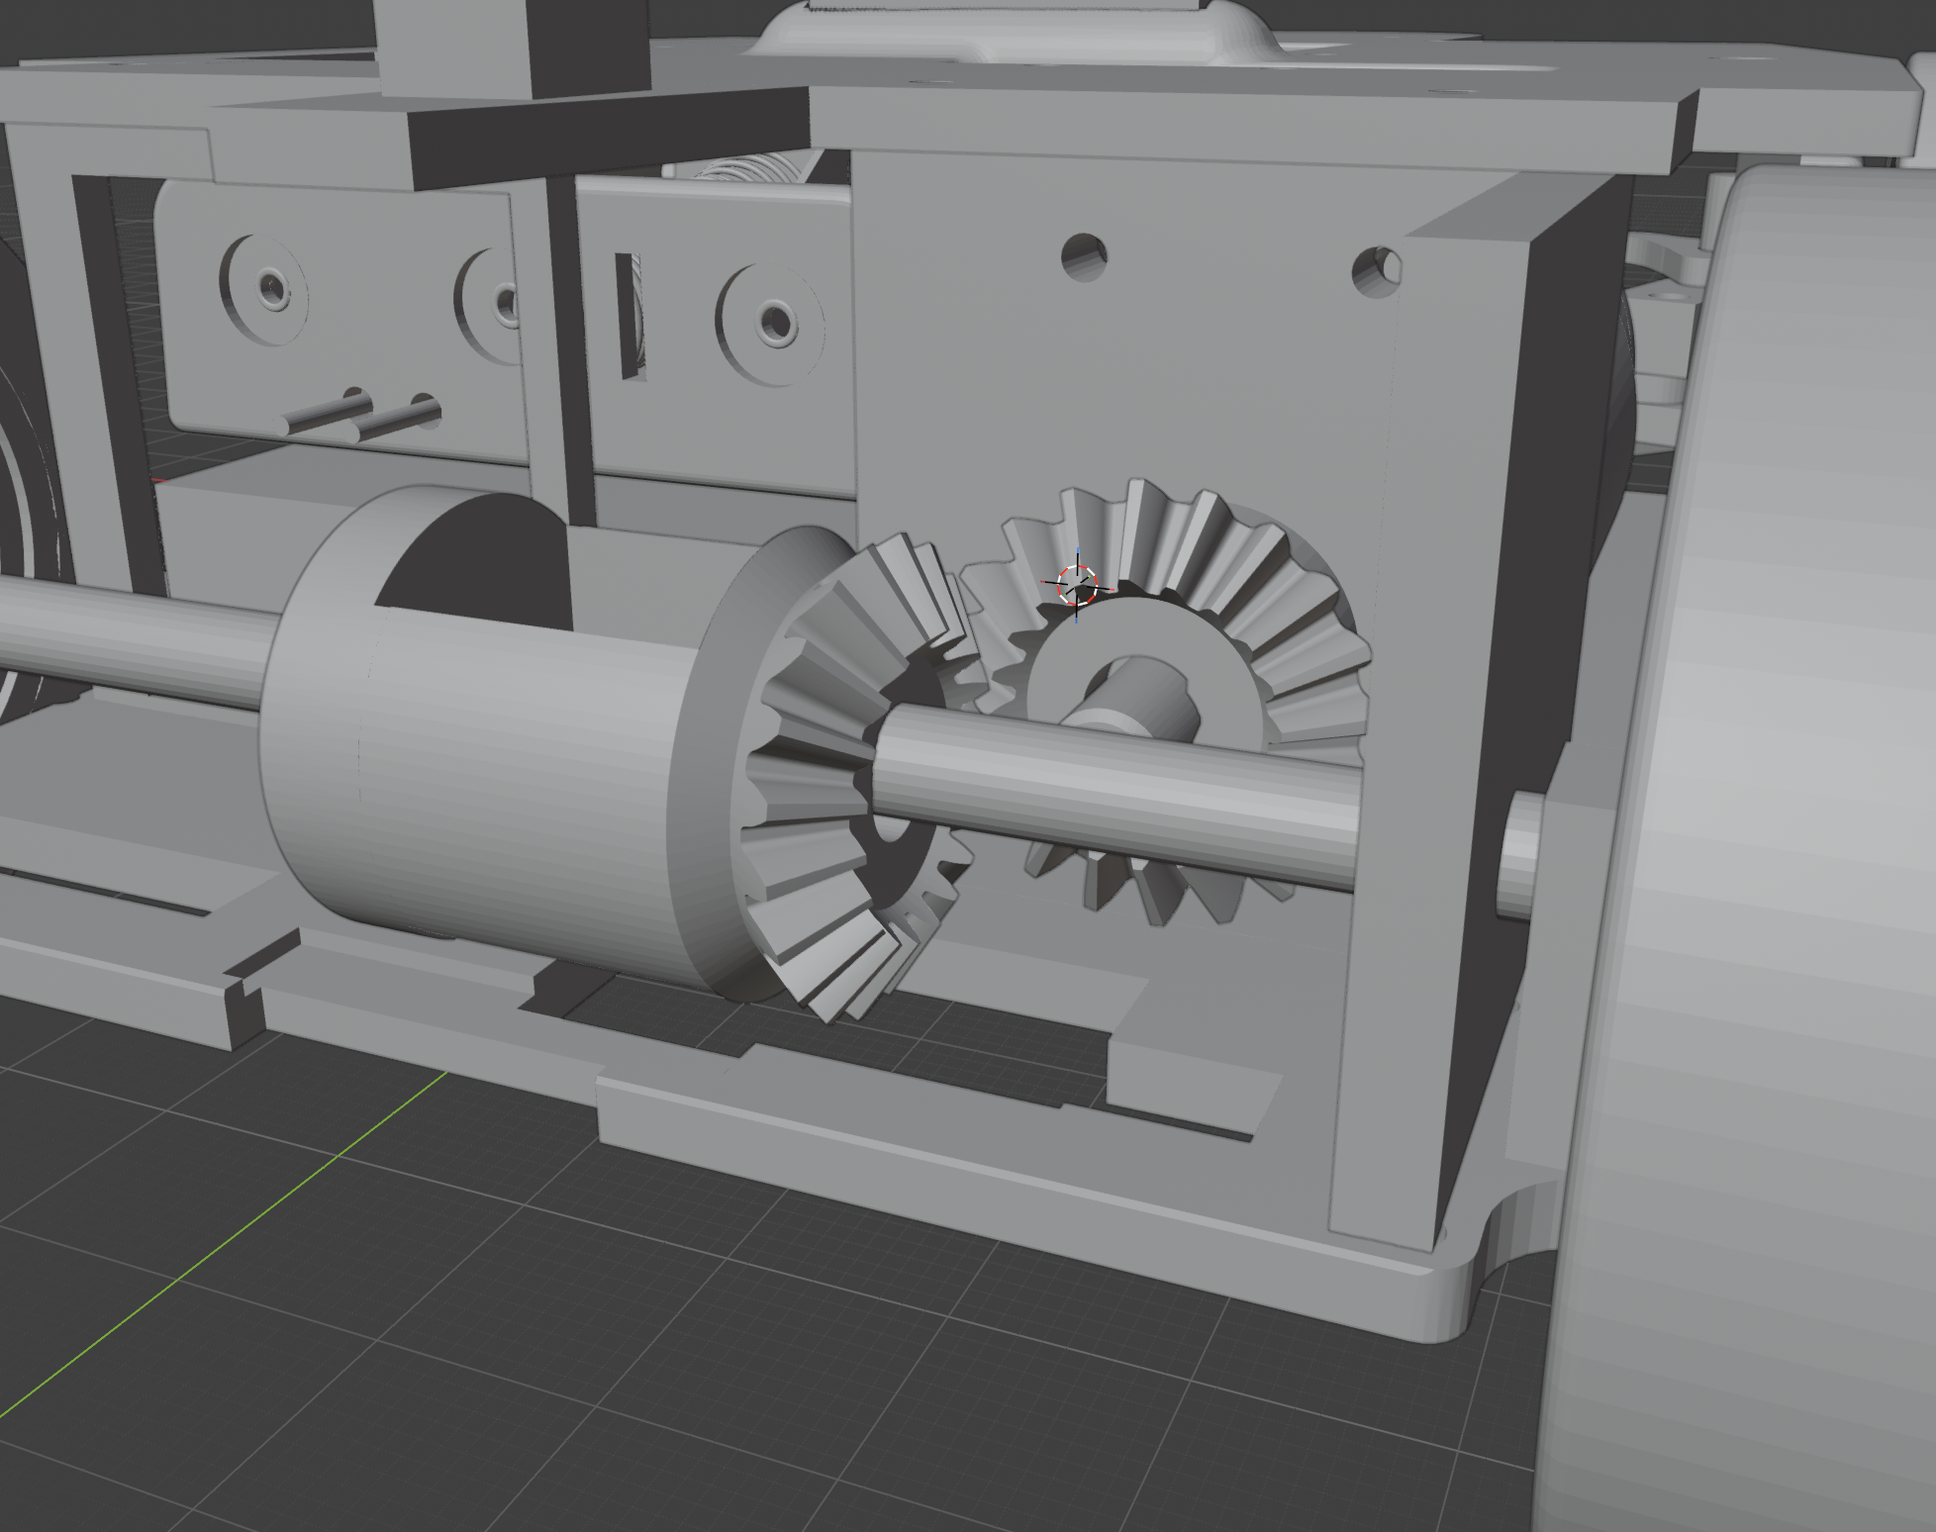
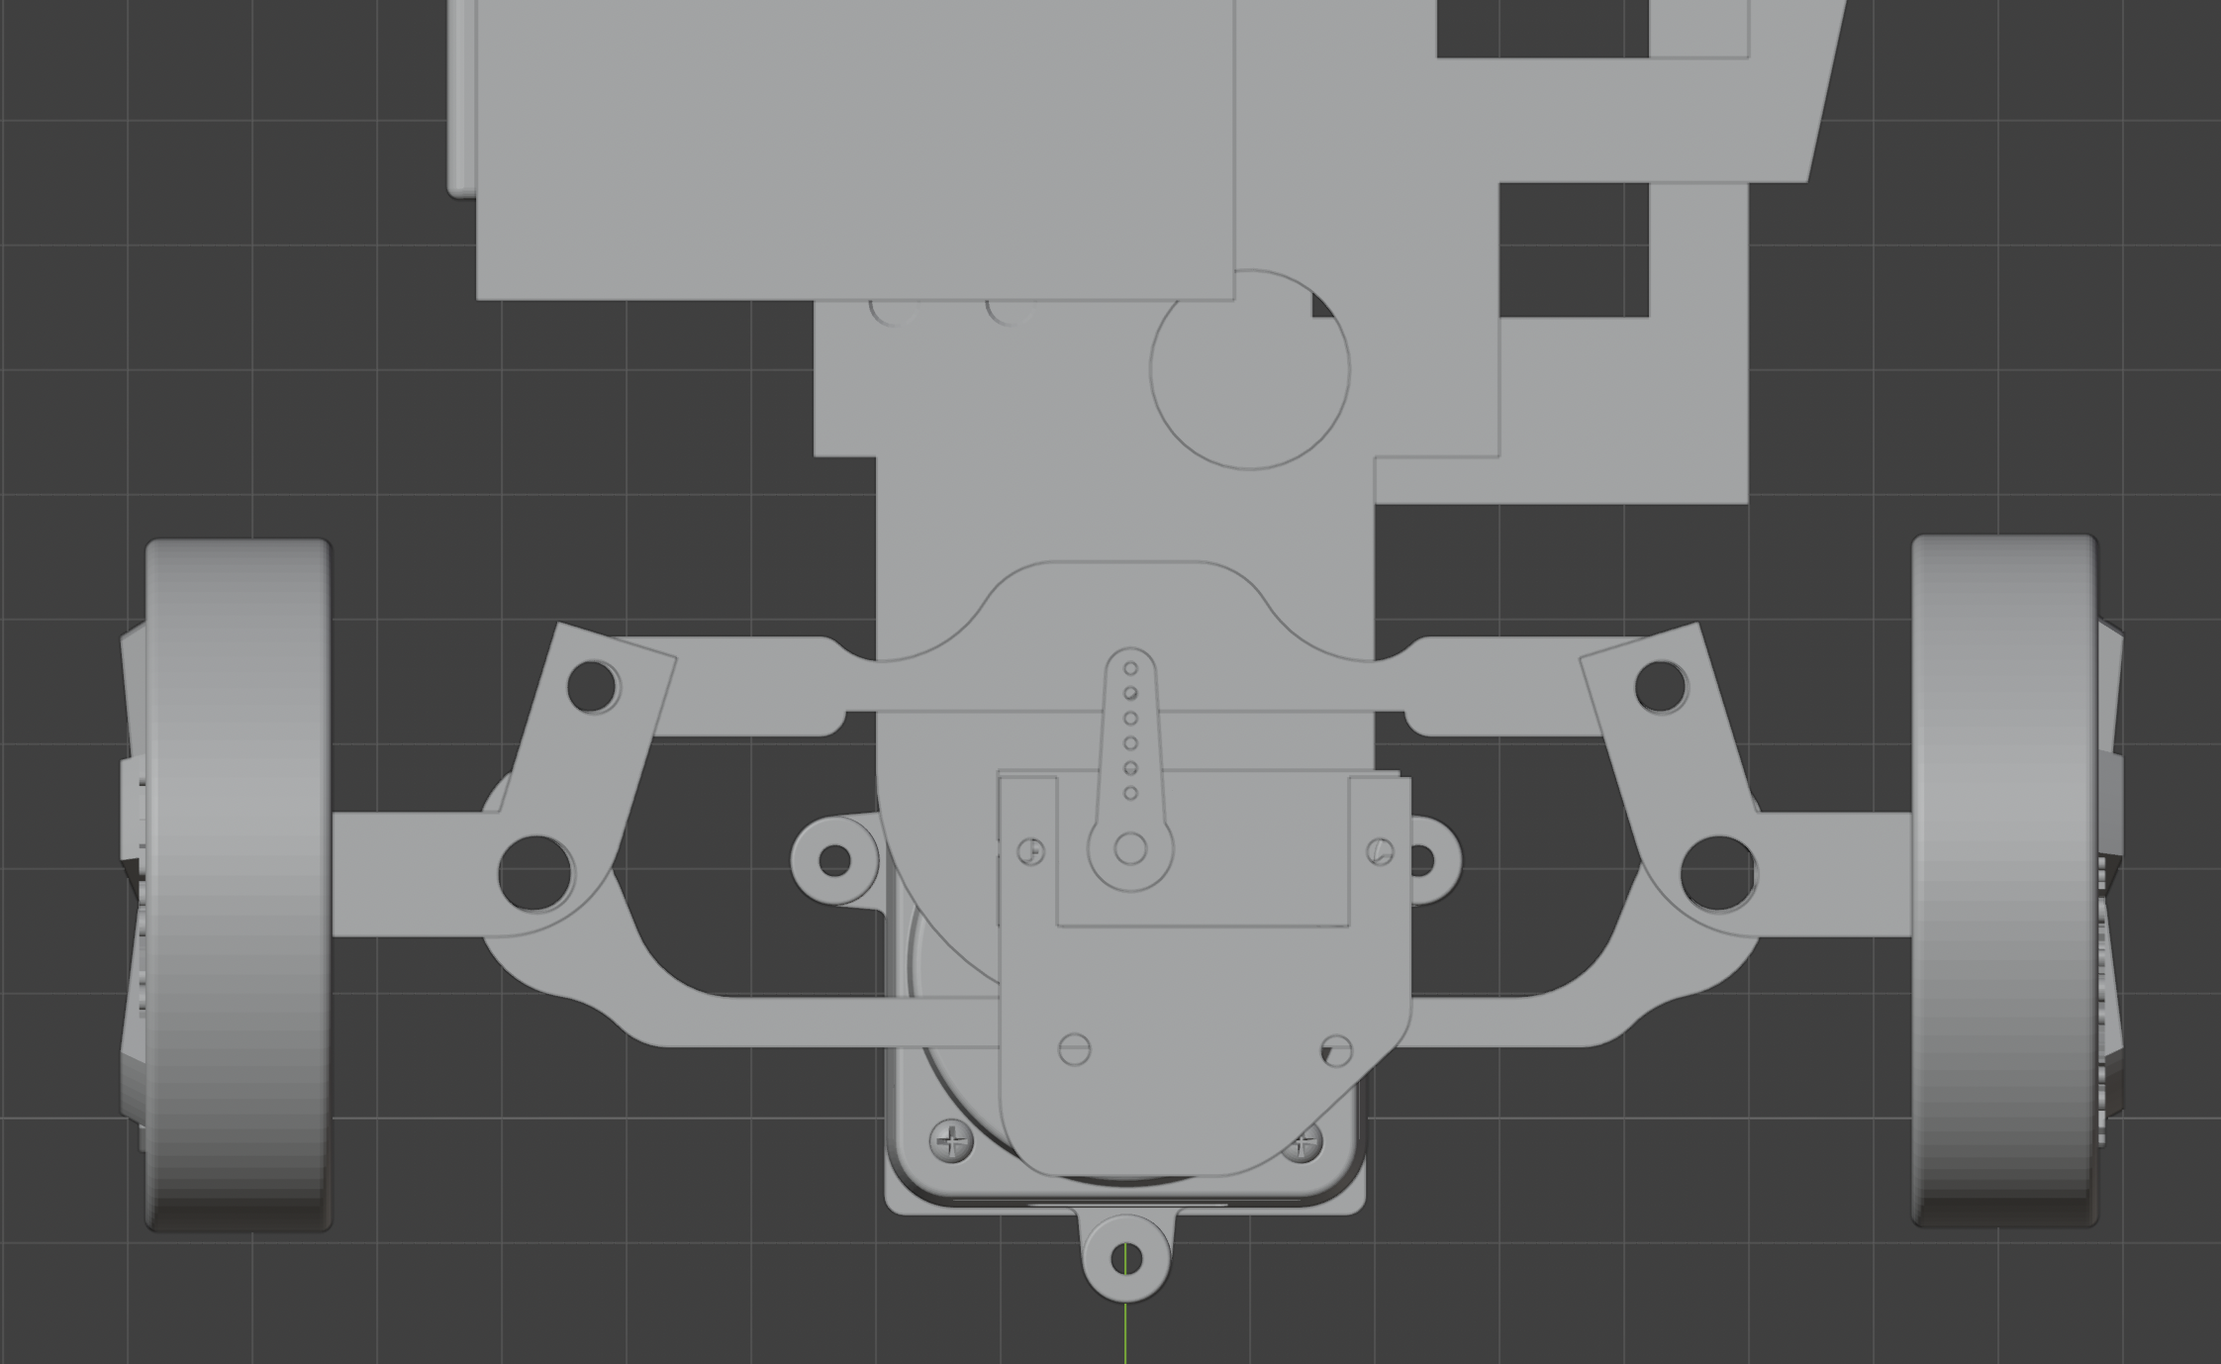
Update codes and README

diff --git a/README.md b/README.md
@@ -46,6 +46,10 @@ Unlike a conventional microcontroller, the Raspberry Pi is a compact computer th
 
 At the beginning of development, we used a **Raspberry Pi 4**. However, image processing required more computational power than expected, making real-time control difficult in some situations. After upgrading to the Raspberry Pi 5, image processing became significantly faster, resulting in much more stable driving performance.
 
+We also adopted an **RP2040** as a sub-controller for motor control.
+
+Because the Raspberry Pi 5 runs Linux, when we command it (for example, changing PWM values or reading encoders in Python), many processes such as LiDAR processing, camera processing, and communication are running simultaneously. As a result, **the processing timing can drift slightly**. Considering this and maintainability, we decided to offload motor control to the RP2040.
+
 ## LiDAR
 
 Our robot uses a **LiDAR** for wall detection, distance measurement, and wall following.
@@ -53,6 +57,9 @@ Our robot uses a **LiDAR** for wall detection, distance measurement, and wall fo
 We initially considered using ultrasonic sensors. However, ultrasonic sensors can only measure distance in a single direction, whereas the LiDAR can obtain distance information from almost the entire surrounding area, although part of its field of view is blocked by components such as the Raspberry Pi. This allows the robot to detect obstacles in front while simultaneously measuring the distances to both side walls, enabling more accurate self-localization.
 
 One of the greatest challenges during development was designing an algorithm capable of accurately detecting walls using LiDAR point cloud data. In addition, because the robot must process a large amount of distance data in real time, optimizing the processing speed was also a major challenge. Through repeated testing and refinement, we continuously improved both the algorithm and the software until the current system was completed.
+
+Currently, for each full rotation of LiDAR data (angle and distance), we remove points behind the robot and points with abnormal distances, and convert points within 3 m into planar coordinates. Then, using RANSAC, we search for line-shaped point sets: we randomly choose two points to form a line, collect points within 50 mm of that line, and repeat this 100 times, selecting the line that gathers the most points. We then refine the line using the gathered points, and treat a segment as a wall if it has at least 10 points and a length of at least 100 mm. Up to four walls are detected. If the gap between points exceeds 250 mm, we treat them as separate clusters.
+Among the detected walls, we select up to the three walls with the highest number of points and classify them into right wall / front wall / left wall based on the direction of the perpendicular from the LiDAR to the wall. If three walls are available, we assign right–front–left in order of angle. If only one or two are available, we assign roles based on which reference direction they are closest to. However, to be used as a front wall, the wall must be at least 500 mm long. Distances to walls are computed using the perpendicular distance from the LiDAR to the wall line, and we follow whichever side wall is longer. This recognition is performed every rotation, and we do not build a map by accumulating past point clouds.
 
 ![LiDAR](images/Other_images/LiDAR_screen.png)
 
@@ -62,26 +69,34 @@ At the beginning of development, we used a **HuskyLens** because it allowed us t
 
 We use a **Raspberry Pi Camera Module 3 Wide** because of its excellent compatibility with the Raspberry Pi and its ability to capture images at high speed. Initially, we used the standard **Raspberry Pi Camera Module 3**, but its horizontal field of view was only about **66°**, causing obstacles to occasionally move outside the camera image. As a result, reliable obstacle avoidance was difficult. After replacing it with the **Camera Module 3 Wide**, the horizontal field of view increased to approximately **102°**, allowing the robot to detect obstacles much more reliably.
 
-The captured RGB image is first converted into the **HSV color space**. HSV consists of **Hue, Saturation, and Value,** and is less affected by changes in lighting conditions than RGB. This enables the robot to distinguish red and green objects more reliably by using hue information.
+The captured RGB image is first converted into the **HSV color space**. HSV consists of **Hue (color), Saturation, and Value (brightness)**, and is less affected by changes in lighting conditions than RGB. This enables the robot to distinguish red and green objects more reliably by using hue information.
 
 <p align="center">
-  <img src="images/Other_images/RGB_image.png" alt="Robot9" width="45%">
-  <img src="images/Other_images/HSV_image.jpg" alt="Robot10" width="45%">
+  <img src="images/Other_images/RGB_image.png" alt="rgb" width="45%">
+  <img src="images/Other_images/HSV_image.jpg" alt="hsv" width="45%">
 </p>
 
-After the conversion, separate color masks are applied to the red and green objects, followed by binary thresholding to extract only the target objects. Contour detection is then performed to obtain the coordinates of the four corners of each object. These coordinates are used to determine each object’s position and color, and the resulting information is used for navigation.
+After the conversion, separate color masks are applied to the red and green objects, followed by binary thresholding to extract only the target objects. Contour detection is then performed to obtain the coordinates of the four corners of each object. However, this alone may also detect red objects or blue objects outside the field. To address this, we detect the court region using the camera and treat only objects that overlap with the court area as obstacle objects. Using those object coordinates, we determine the objects’ positions and colors, and use the resulting information for navigation.Also, since part of the robot appears in the camera's field of view, the program is configured to skip image recognition in that area.
 
-![Camera](images/Other_images/camera_screen.png)
+
+The court is detected using the same approach as object detection, by applying a white color mask.
+
+<p align="center">
+  <img src="images/Other_images/detect_off.png" alt="off" width="45%">
+  <img src="images/Other_images/detect_on.png" alt="on" width="45%">
+</p>
+
+In addition, the camera recognizes a blue line to count the number of laps.
+
+![Camera](images/Other_images/blue_image.png)
 
 ## Chassis
 
 Most of the robot’s mechanical components, excluding electronic parts, were designed by our team and manufactured using **3D printers**. This allowed us to create custom parts that would have been difficult or impossible to produce using commercially available components, enabling a structure optimized specifically for our robot.
 
-We selected **PETG** as the printing material. Although PLA is easy to print, its durability is limited. ABS provides excellent strength, but it is prone to warping and requires more demanding printing conditions. PETG offers an excellent balance between printability and mechanical strength, making it the most suitable material for our robot.
+We selected **ABS** as the printing material. At the beginning of development, we used PLA and PETG because they were easier to print, but we decided to switch to ABS due to durability concerns.
 
-We use both a **Bambu Lab A1** and a **Bambu Lab X2D** for manufacturing. At the beginning of development, all parts were produced using only the A1. However, because nearly all of the robot’s mechanical components are 3D printed, a single printer required an excessive amount of production time. Therefore, we introduced the X2D, allowing multiple parts to be printed simultaneously.
-
-Compared with the A1, the X2D provides higher printing speed and better print quality, enabling us to manufacture high-quality components in a shorter amount of time. We currently use both printers according to the requirements of each part.
+We use a **Bambu Lab X2D** for manufacturing. At the beginning of development, all parts were produced using a **Bambu Lab A1**. However, the A1 could not print ABS, so we introduced the X2D to enable ABS printing. In addition, the **Bambu Lab X2D** improved printing speed and quality.
 
 ## Steering Mechanism
 
@@ -97,16 +112,22 @@ A **differential gear** is also installed on the rear axle. During cornering, it
 
 ![Gear](images/Robot_images/gear_image.png)
 
-
 ## Electrical System
 
 To prevent voltage drops and electrical noise generated by the drive motors from affecting the control system, our robot uses **separate power supplies for the drive system and the control system.**
 
 The drive motors are powered by a battery pack consisting of **three 18650 lithium-ion batteries connected in series**. Since the fully charged battery voltage is approximately **12 V**, the motors are powered directly without additional voltage conversion.
 
+When the voltage drops below 11 V, the robot’s movement becomes weaker. Therefore, we installed a voltmeter module on the robot to monitor the voltage.
+
+In addition, to allow the robot to stop immediately in dangerous situations (for example, when it starts malfunctioning), we added an emergency stop button to the motor power circuit so that the robot can be stopped physically.
+
+![Stop_button](images/Robot_images/button_image.jpeg)
+
 The steering servo is powered through a **buck converter (DC-DC converter)**, which steps the voltage down to **5 V** and provides a stable power supply.
 
-The Raspberry Pi is powered by a **5,000 mAh USB Power Delivery (PD) power ban**k. Separating the motor and control power supplies reduces malfunctions caused by voltage fluctuations and electrical noise, significantly improving the overall stability of the robot.
+
+The Raspberry Pi is powered by a **5,000 mAh USB Power Delivery (PD) power bank**. Separating the motor and control power supplies reduces malfunctions caused by voltage fluctuations and electrical noise, significantly improving the overall stability of the robot.
 
 To simplify wiring as additional functions were added, we also designed and manufactured a **custom Raspberry Pi HAT board**. This board organizes the wiring, simplifies assembly and maintenance, and improves the overall maintainability of the robot.
 
@@ -116,20 +137,22 @@ To simplify wiring as additional functions were added, we also designed and manu
 
 In the **Open Challenge**, the robot navigates primarily using **LiDAR**. As described earlier, we selected LiDAR because it provides distance information from almost the entire surrounding area, allowing the robot to perceive its environment with high accuracy.
 
-During operation, the robot continuously measures the distances to the front wall and both side walls using the LiDAR. The distances to the side walls are used as the input for a **PID controller**, enabling the robot to maintain a stable position near the center of the course. In addition, the robot’s heading is continuously corrected using a **gyroscope**, allowing it to maintain a stable orientation while driving.
+During operation, the robot continuously measures the distances to the front wall and both side walls using the LiDAR. The distances to the side walls are used as the input for a **PID controller**, enabling the robot to maintain a stable position near the center of the course. In addition, at the start the robot detects the left and right walls using LiDAR, and leveraging the characteristic that the field’s inner wall is shorter than the outer wall, it decides which wall to follow based on wall length.
 
-When the distance to the front wall falls below a predefined threshold, the robot determines that it has reached a corner. It then performs a **90-degree turn** while continuously monitoring its heading with the gyroscope. This feedback-based control allows the robot to achieve consistent and accurate turns.
-
-The driving direction is determined by monitoring changes in the distances to the side walls. If the distance to one side suddenly increases, the robot determines that the wall on that side has ended and turns in that direction. This method enables the robot to adapt automatically to different course layouts and driving directions used in the competition.
+Just before a corner, when the distance to the front wall falls below a predefined threshold, the robot determines that it has reached the corner. It then measures the angle of the front wall with LiDAR and determines (with a gyroscope) the angle that becomes parallel to the front wall while performing the turn. This feedback-based control allows the robot to achieve stable and accurate cornering.
 
 ## Obstacle Challenge
 
 In the **Obstacle Challenge**, the robot uses a **Raspberry Pi Camera** to detect obstacles and control its movement accordingly.
 
-First, the robot detects the contours of all visible objects in the camera image and obtains the coordinates of their four corners together with their colors (**red** or **green**). When multiple objects are detected simultaneously, the object that appears lowest in the image is regarded as the closest obstacle and is given the highest priority for avoidance.
+The obstacle-avoidance loop begins by checking whether an object is detected by the camera. If no object is detected, the robot repeatedly runs `find_obj` until an object is found. `find_obj` basically steers in the same direction as the lap direction while moving forward until an object is detected. However, if a wall is detected using the line at the bottom of the camera image, it interrupts this behavior and steers away from the wall until the wall is no longer detected.
 
-During obstacle avoidance, the robot passes **to the left of red obstacles** and **to the right of green obstacles**. The steering angle is continuously calculated so that the center of the detected object moves toward a predefined target position in the camera image.
+Once an object is detected, the robot starts `avoid_obj` to avoid the closest object. The closest object is defined as the one appearing lowest in the image.
 
-Once the center of the object passes a predefined reference position, the robot determines that the obstacle has been successfully cleared. The steering is then gradually returned to the neutral position, allowing the robot to smoothly return to the center of the course and continue driving straight.
+In `avoid_obj`, the robot avoids **red** objects by going to the right and **green** objects by going to the left. If the object being avoided disappears from the camera image and no other objects are detected, the robot returns to `find_obj`. If other objects are still detected, the robot continues `avoid_obj`, and the next closest object becomes the new target without leaving the function.
 
-By continuously repeating this process, the robot is able to avoid multiple obstacles in sequence while maintaining stable and reliable navigation around the course.
+For example, if the object is green, the robot draws a line from the bottom-right corner of the image to the center of the green object, and uses PD control on the steering so that the angle inside that line matches a preset value. During `avoid_obj`, another line is drawn from the bottom-right corner to a point slightly left of the object’s left edge (object width × 3 px). This line corresponds to the path of the robot’s right edge while avoiding the object. If this line overlaps with a wall, the robot would collide with the wall if it continued, so it temporarily stops the avoidance PID control and steers left until the wall no longer overlaps with the wall-detection line. (For red objects, the left/right behavior is reversed.)
+
+![Obstacle_image](images/Other_images/Obstacle_image.png)
+
+Lap counting is done by counting how many times the blue line is detected. When the blue line transitions from detected to not detected, the lap count is incremented by 1. For a few seconds after detecting the blue line, detections are ignored to prevent false double-counting when the same line briefly disappears and reappears in the camera view.
